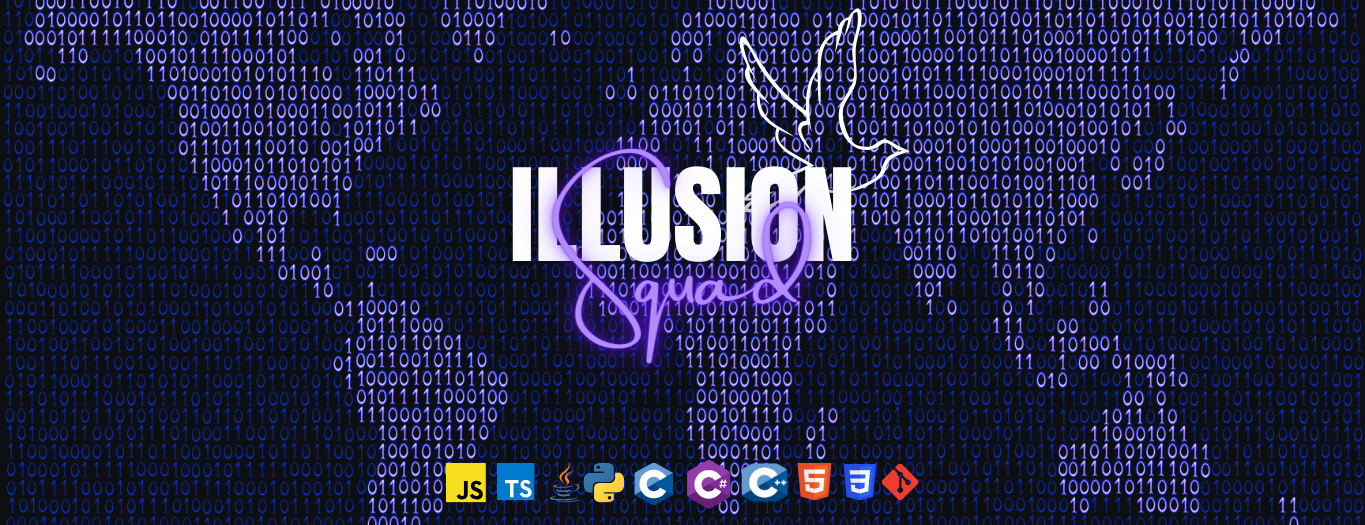
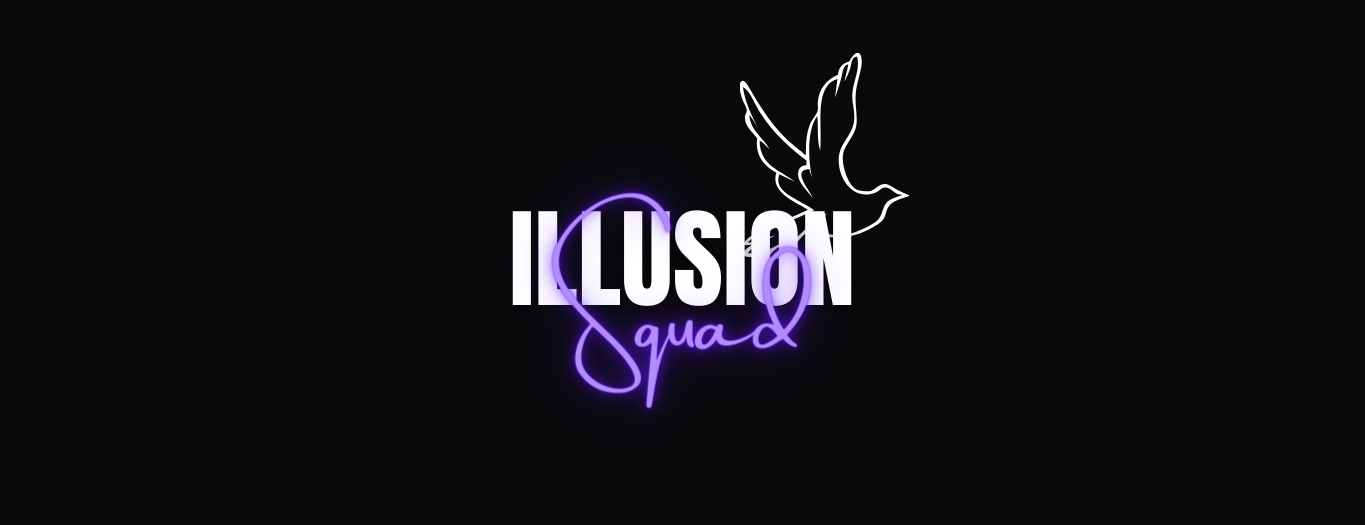
Illusion Website - V1

diff --git a/index.html b/index.html
@@ -20,12 +20,10 @@
                 <a href="#">Cursos</a>
                 <a href="#">Faq</a>
                 <a href="#">Sobre</a>
-                <a href="#">Doações</a>
             </div>
         </header>
         <main>
             <div class="main-div1" id="banner">
-                <img src="./Assets/Imgs/banner_illusion.png" alt="banner illusion">
             </div>
             <div class="main-div3">
                 <h1>Compartilhando <bold>código</bold>, disseminando conhecimento.</h1>
@@ -36,7 +34,7 @@
                     <p>Lorem ipsum dolor sit amet, consectetur adipiscing elit. Maecenas enim erat, pellentesque eget lectus in, dignissim molestie ante. Vestibulum nisi neque, blandit ac enim ut, vestibulum tempus neque. Maecenas quis erat ipsum. Duis ultricies lorem ut justo dapibus tempus. In lobortis mollis est non tristique. Cras massa lectus, euismod nec euismod id, maximus nec ante. Aliquam erat volutpat.</p>
                 </div>
                 <div class="main-div2-div2" id="img">
-                    <img src="./Assets/Imgs/imagem1.png" alt="">
+                    <img id="image1" src="./Assets/Imgs/imagem1.png" alt="">
                 </div>
             </div>
             <div class="main-div4">
@@ -240,7 +238,8 @@
             </div>
         </main>
         <footer>
-
+            <h4>Illusion Corporation © 2021 - 2024</h4>
+            <h5>Contact: contato@illusionsquad.com</h5>
         </footer>
         <script src="./Src/Js/main.js"></script>
     </body>

diff --git a/Assets/Scss/style.scss b/Assets/Scss/style.scss
@@ -24,7 +24,6 @@ header {
     position: fixed;
     transition: height .3s ease-in-out;
     transition: background .3s ease-in-out;
-    background: #090a0c9f;
 
     .logo { 
         display: grid;
@@ -38,7 +37,7 @@ header {
     }
 
     .links {
-        width: 40%;
+        width: 30%;
         height: 100%;
         display: flex;
         align-items: center;
@@ -81,10 +80,10 @@ main {
         width: 100%;
         height: 80vh;
         overflow: hidden;
-
-        img {
-            width: 100%;
-        }
+        background: url(../Imgs/banner_illusion.png) center;
+        background-repeat: no-repeat;
+        background-size: cover;
+        border-bottom: 1px solid $primary;
     }
 
     .main-div2 {
@@ -301,6 +300,18 @@ main {
             place-items: center;
         }
     }
+}
+
+footer {
+    width: 100%;
+    height: 15vh;
+    background: #000000fb;
+    color: #fff;
+    display: flex;
+    flex-direction: column;
+    align-items: center;
+    justify-content: center;
+    gap: 1vh;
 }
 
 // extilizações globais 

diff --git a/Assets/Css/style.css b/Assets/Css/style.css
@@ -17,7 +17,6 @@ header {
   position: fixed;
   transition: height 0.3s ease-in-out;
   transition: background 0.3s ease-in-out;
-  background: rgba(9, 10, 12, 0.6235294118);
 }
 header .logo {
   display: grid;
@@ -29,7 +28,7 @@ header .logo img {
   transition: 0.3s ease-in-out;
 }
 header .links {
-  width: 40%;
+  width: 30%;
   height: 100%;
   display: flex;
   align-items: center;
@@ -67,9 +66,10 @@ main .main-div1 {
   width: 100%;
   height: 80vh;
   overflow: hidden;
-}
-main .main-div1 img {
-  width: 100%;
+  background: url(../Imgs/banner_illusion.png) center;
+  background-repeat: no-repeat;
+  background-size: cover;
+  border-bottom: 1px solid #703db3;
 }
 main .main-div2 {
   width: 100%;
@@ -248,6 +248,18 @@ main .main-div6 .cyber {
   height: 100%;
   display: grid;
   place-items: center;
+}
+
+footer {
+  width: 100%;
+  height: 15vh;
+  background: rgba(0, 0, 0, 0.9843137255);
+  color: #fff;
+  display: flex;
+  flex-direction: column;
+  align-items: center;
+  justify-content: center;
+  gap: 1vh;
 }
 
 ::selection {

diff --git a/Src/Js/main.js b/Src/Js/main.js
@@ -5,3 +5,5 @@ function scrollOnHeader(){
 }
 
 window.addEventListener('scroll', scrollOnHeader)
+
+var controller = new ScrollMagic.Controller();
